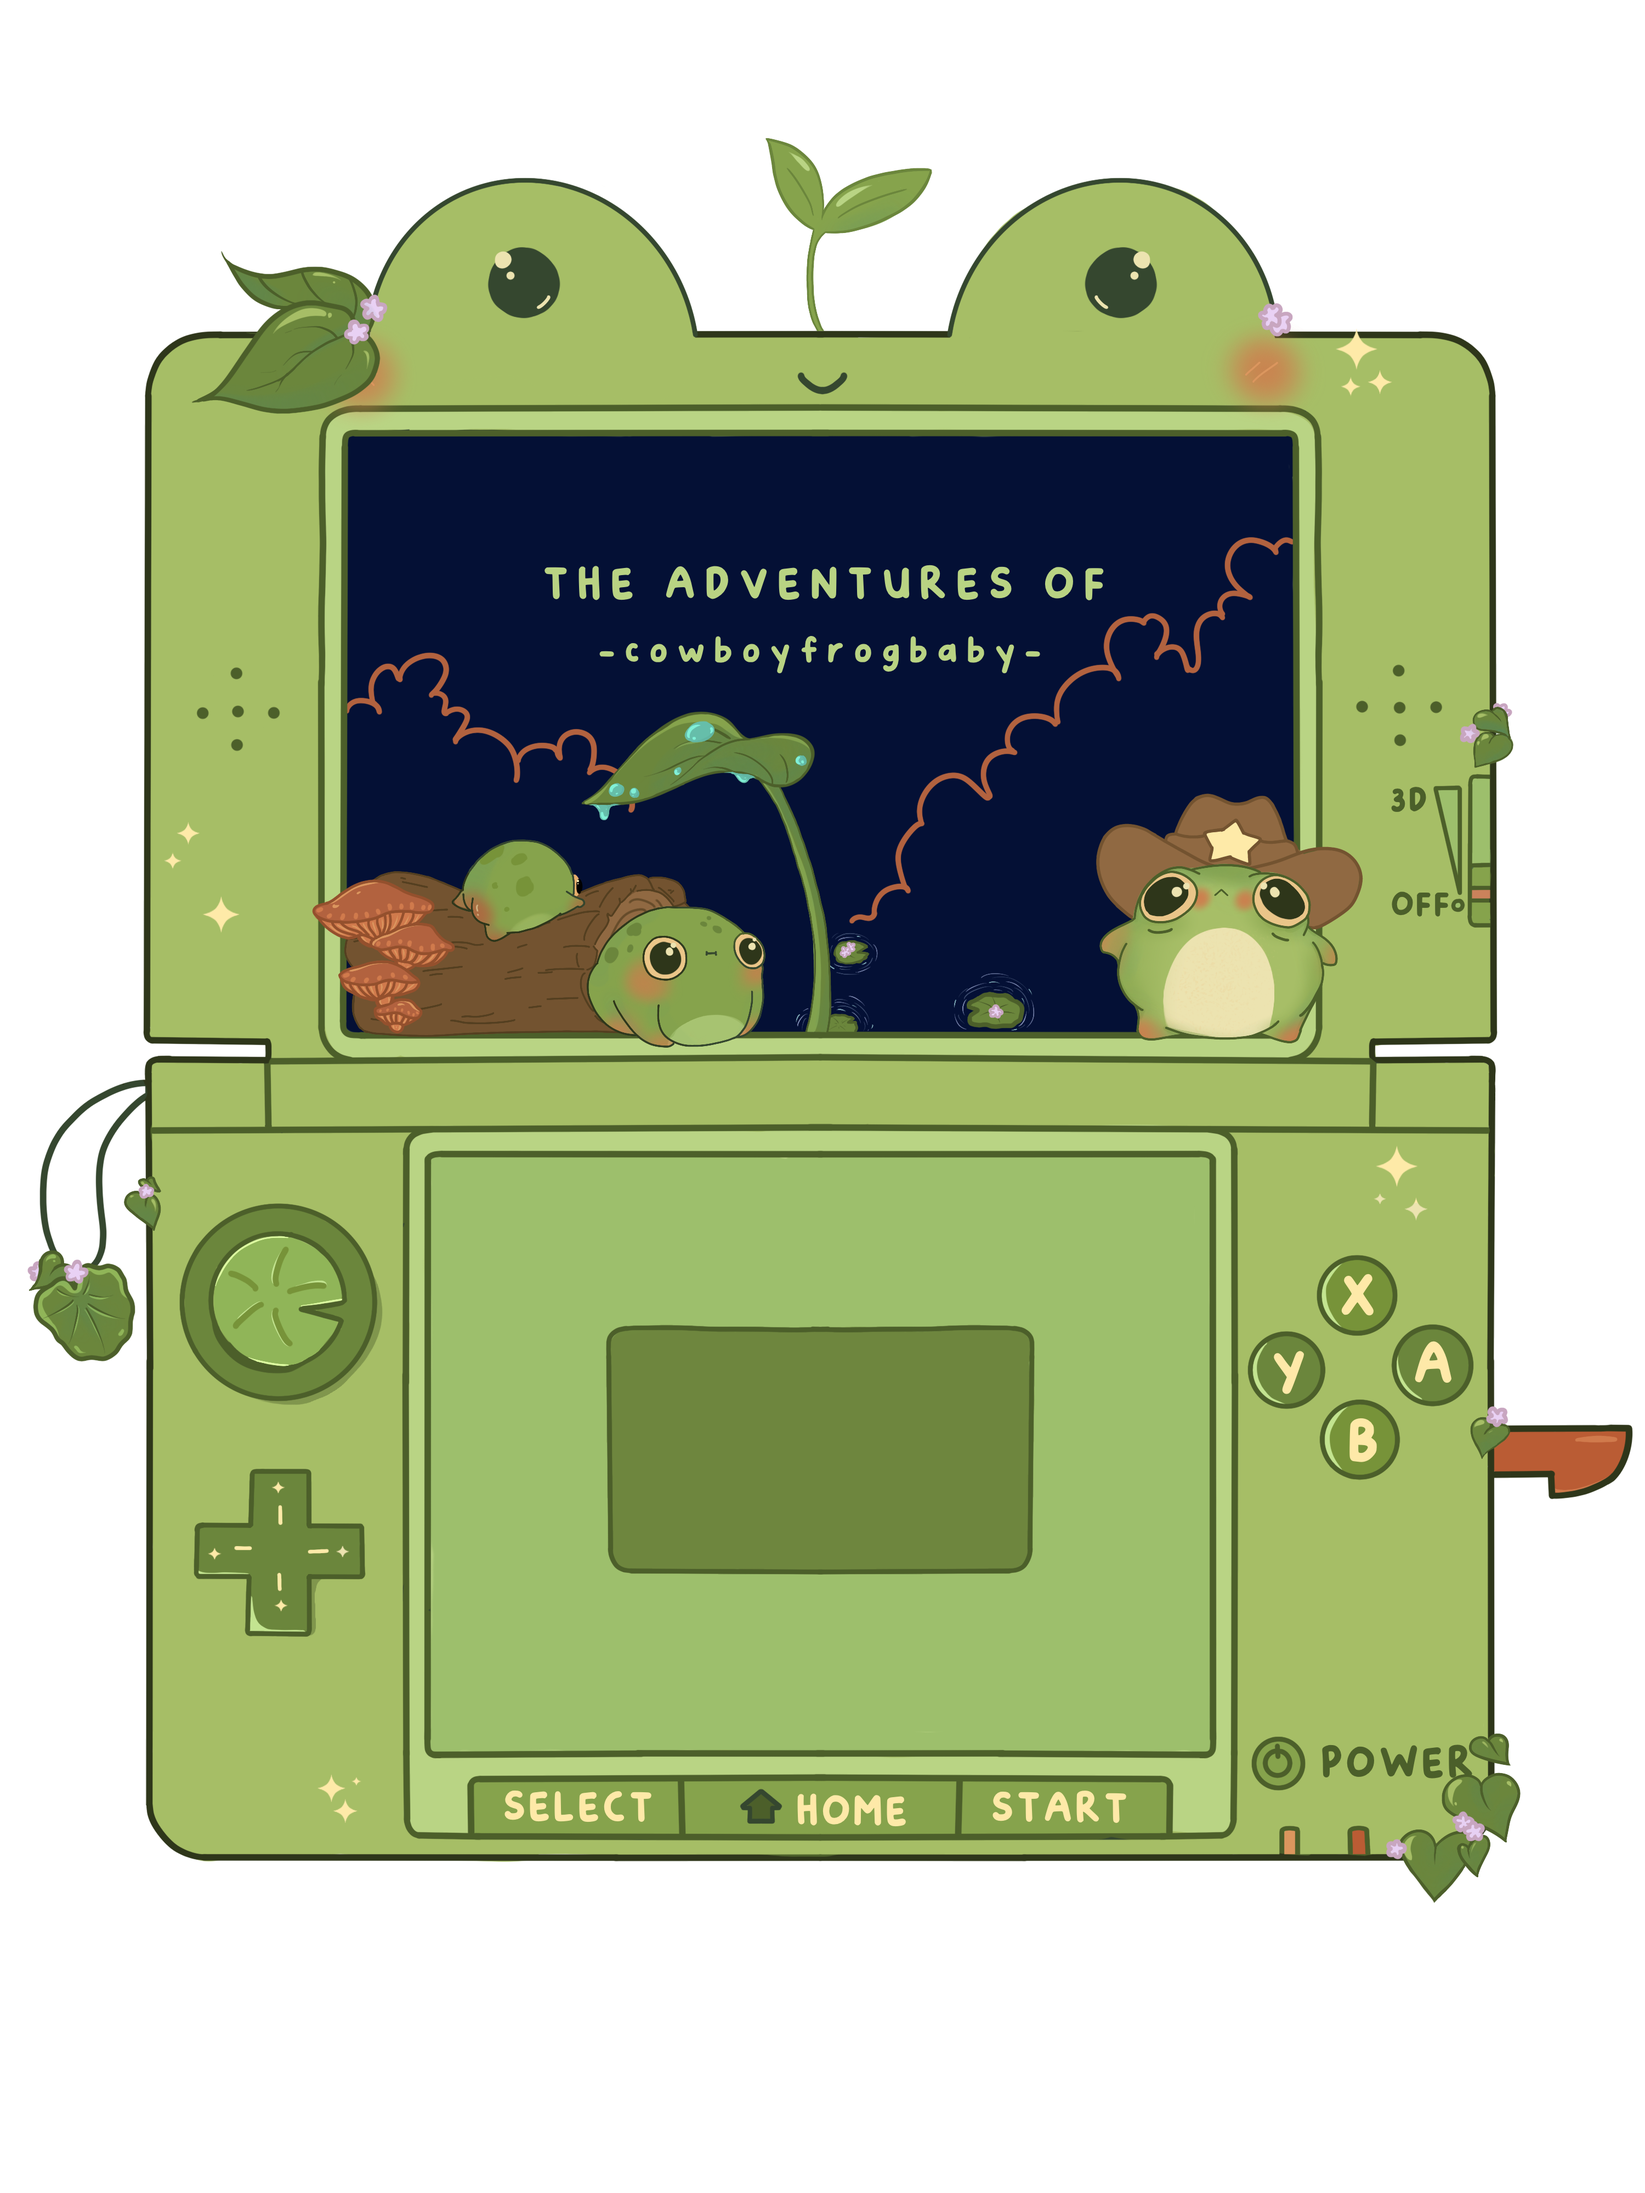
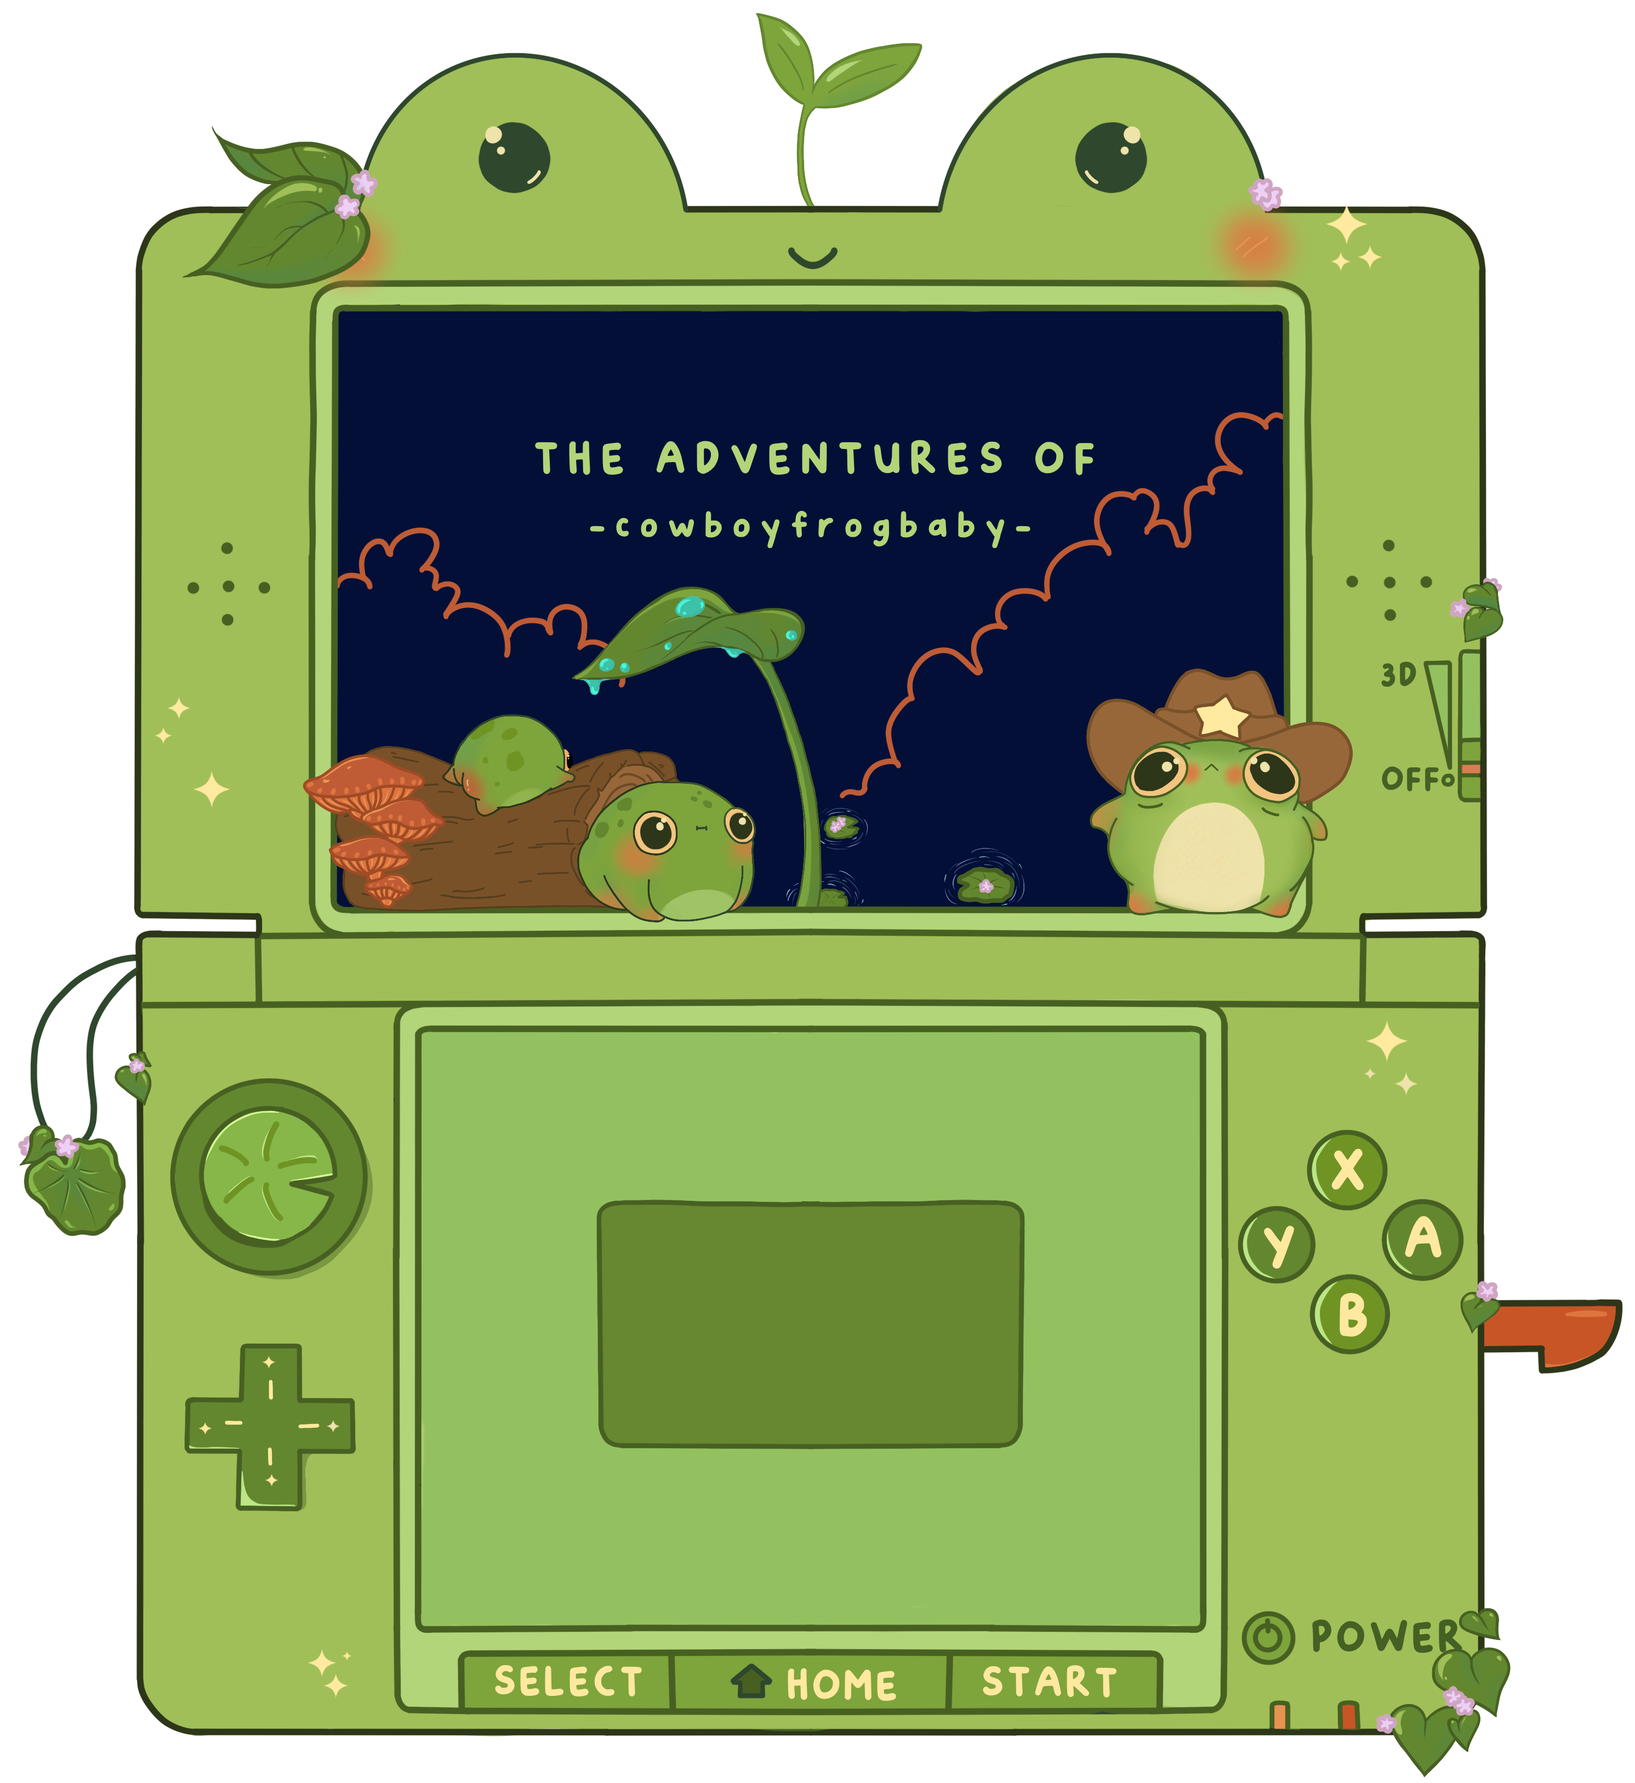
image and buttons centered but not scaling

diff --git a/style.css b/style.css
@@ -47,29 +47,45 @@ html {
 .welcome-container {
   position: relative;
   display: flex;
-  width: auto;
-  height: 100%;
-  flex-direction: column;
-  align-items: center;
   justify-content: center;
-  margin: 0;
+  align-items: center; /* Centers content vertically */
+  width: auto;
+  height: 100vh;
+  overflow: hidden;
 }
 
 .welcome-container img {
-  max-width: 80vw;
-  max-height: 90vh;
-  width: auto;
-  height: 100%
-    object-fit: contain;
+  width: 100%;
+  height: 100%;
+  object-fit: contain; /* or 'contain' if you want the whole image visible */
   display: block;
+}
+
+.overlay-content {
+  position: absolute;
+  top: 50%;
+  left: 50%;
+  transform: translate(-50%, -50%);
+  text-align: center;
+  color: #fee9a8; /* or your preferred color */
+  width: 100%;
+  z-index: 2;
+}
+
+.btn-container {
+  display: flex;
+  flex-direction: column;
+  gap: 1rem;
+  align-items: center;
+  margin-top: 2rem;
 }
 
 .btn-container-parent {
   display: flex;
-position: absolute;
+  position: absolute;
   text-align: center;
   font: 2rem;
-    top: 66.4%;
+  top: 66.4%;
   left: 51%;
   transform: translate(-50%, -50%);
 }
@@ -128,15 +144,14 @@ Have the icon appear next to the button text (on the same line), rather than abo
   height: 3rem;
   vertical-align: middle;
   margin-bottom: 1rem;
- margin-left: 1rem;
+  margin-left: 1rem;
   background-image: url("./assets/playbutton.png");
   background-size: contain;
   background-repeat: no-repeat;
-  background-position: center; 
+  background-position: center;
   transform: scale(0.5);
   transition: opacity 0.6s, transform 0.6s;
   opacity: 0;
-
 }
 
 .new-btn:hover::before,

diff --git a/index.html b/index.html
@@ -1,22 +1,28 @@
 <!DOCTYPE html>
 <html lang="en">
-<head>
-     <meta charset="UTF-8">
-     <meta name="viewport" content="width=device-width, initial-scale=1.0">
-     <title>cfb.exe</title>
-     <link rel="stylesheet" href="style.css">
-     <link rel="stylesheet" href"mediaqueries.css">
-
-</head>
-<body>
-     <div class="welcome-container">
-          <img src="./assets/3ds.png" alt="Nintendo DS">
-          <div class="btn-container-parent">
+  <head>
+    <meta charset="UTF-8" />
+    <meta name="viewport" content="width=device-width, initial-scale=1.0" />
+    <title>cfb.exe</title>
+    <link rel="stylesheet" href="style.css" />
+    <link rel="stylesheet" href"mediaqueries.css">
+  </head>
+  <body>
+    <div class="welcome-container">
+      <div class="overlay-content">
+        <img src="./assets/3ds.png" alt="Nintendo DS" />
+        <div class="btn-container-parent">
           <div class="btn-container">
-               <button class="new-btn" onclick="location.href='nekoweb.com'">NEW GAME</button>
-               <button class="exit-btn" onclick="location.href='nekoweb.com'">SAVE & EXIT</button>
-               </div>
+            <button class="new-btn" onclick="location.href='#home'">
+              NEW GAME
+            </button>
+            <button class="exit-btn" onclick="location.href='nekoweb.com'">
+              SAVE & EXIT
+            </button>
           </div>
-     </div>
-</body>
+        </div>
+      </div>
+<section id="home">
+    </div>
+  </body>
 </html>
